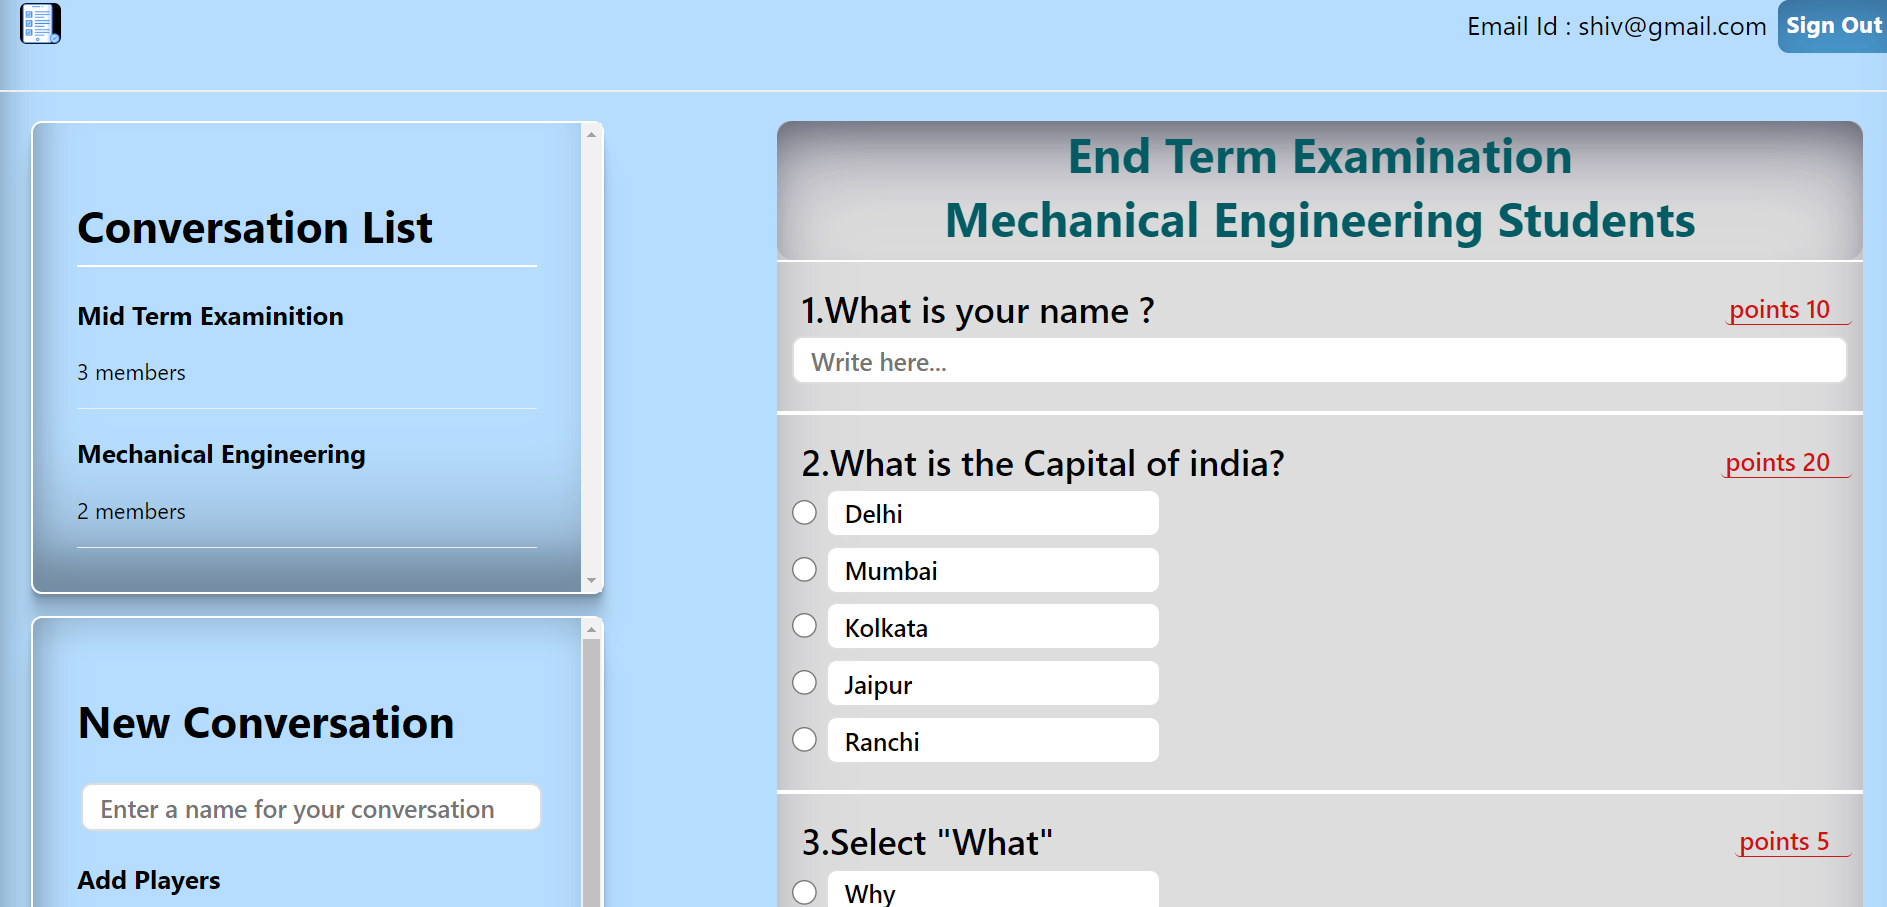
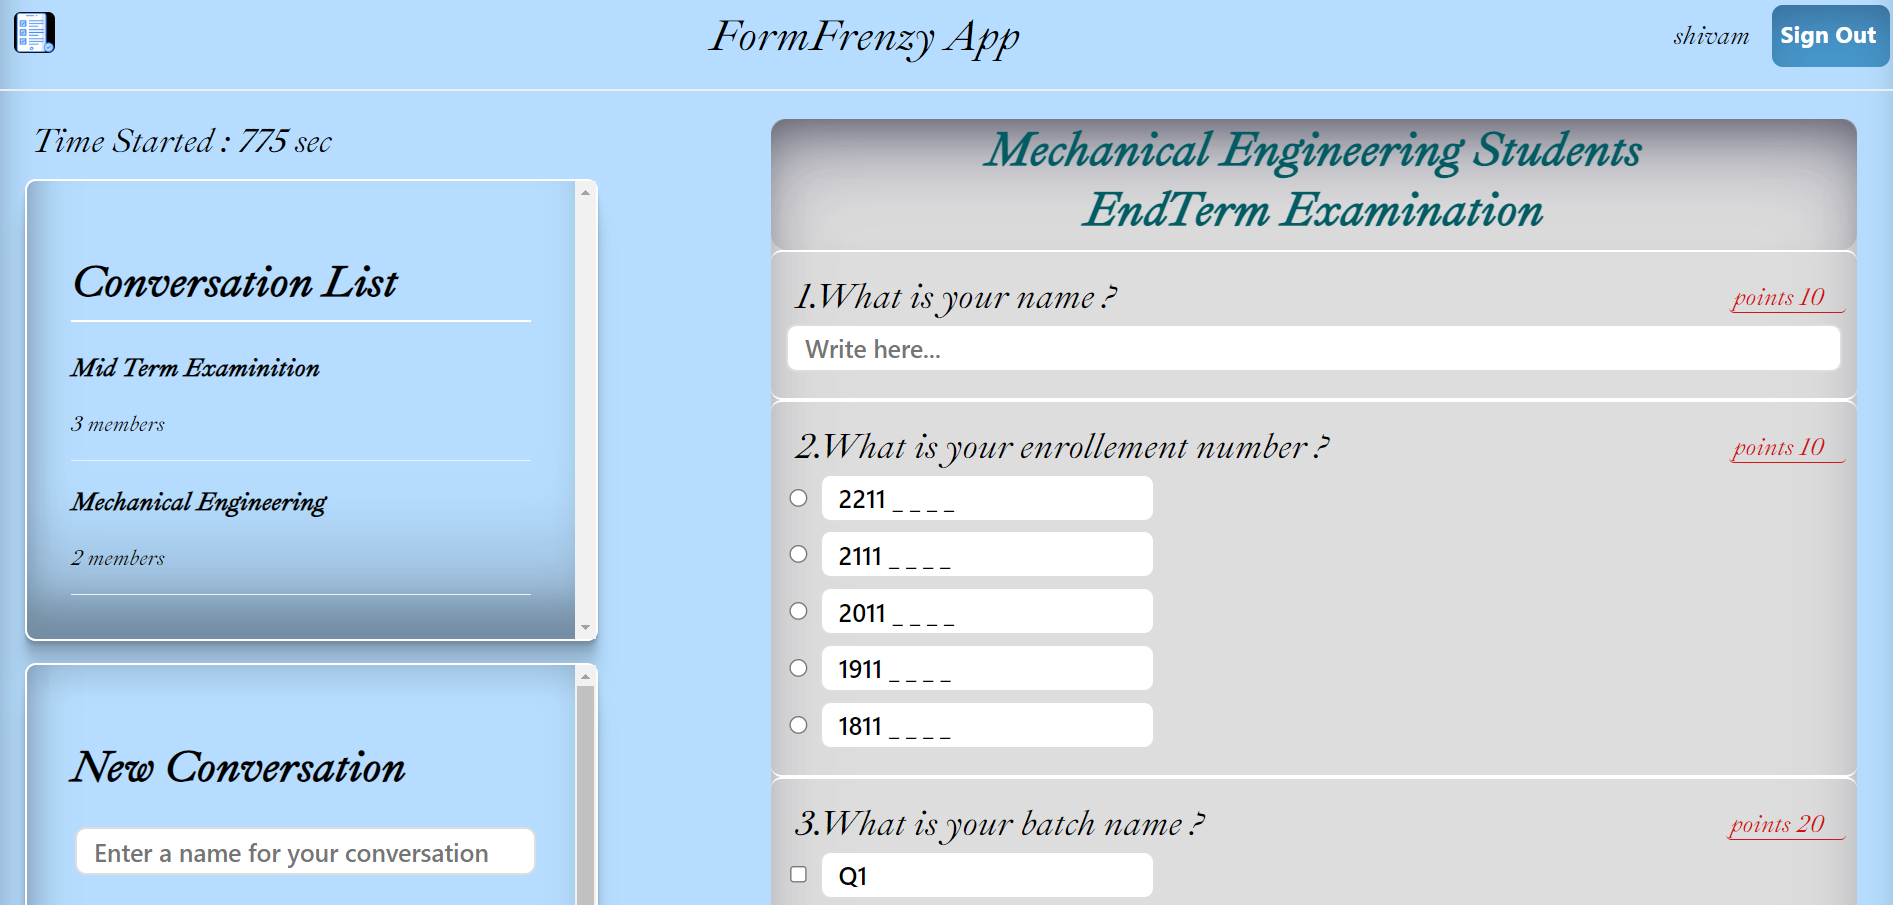
Sinup

diff --git a/Frontend/src/components/navigation/NavBar.jsx b/Frontend/src/components/navigation/NavBar.jsx
@@ -16,10 +16,13 @@ const NavBar = ({ user }) => {
           <img src="/logo.png" alt="logo" className="image"></img>
         </Link>
       </div>
+      <div className="AppName">FormFrenzy App</div>
       <div className="sing-in-out-box">
         {user ? (
           <div className="username-sign-out-navbar">
-            <p className="logged-in-as space-before">Email Id : {user.email}</p>
+            <p className="logged-in-as space-before">
+              {user.email.substring(0, user.email.search("@"))}
+            </p>
             <button className="sign-out-button" onClick={onClickSignOut}>
               Sign Out
             </button>
@@ -35,25 +38,3 @@ const NavBar = ({ user }) => {
 };
 
 export default NavBar;
-
-// <div className="header_info">
-//   <div>
-//     <Link to={`/createnewfrom`}>
-//       <div>Info</div>
-//     </Link>
-//   </div>
-//   <div>
-//     <img src="/logo.png" alt="logo" className="image"></img>
-//   </div>
-// </div>
-// <div className="header_search">
-//   <div>
-//     <input type="text" name="Search" placeholder="Search here...." />
-//   </div>
-// </div>
-// <div className="header_right">
-//   <div>Icons</div>
-//   <div>
-//     <img className="image" src="/avatar.png" alt="logo"></img>
-//   </div>
-// </div>

diff --git a/Frontend/src/components/auth/SinginPage.jsx b/Frontend/src/components/auth/SinginPage.jsx
@@ -12,6 +12,7 @@ const SigninPage = () => {
   const [emailValue, setEmailValue] = useState("");
   const [passwordValue, setPasswordValue] = useState("");
   const [signInError, setSignInError] = useState("");
+  const [singIn, setsingIn] = useState(false);
   const auth = getAuth();
 
   const onClickSignIn = async () => {
@@ -31,6 +32,7 @@ const SigninPage = () => {
       setSignInError("Password length is small...");
       return;
     }
+    setsingIn(true);
     setSignInError("");
 
     try {
@@ -38,6 +40,7 @@ const SigninPage = () => {
       await signInWithEmailAndPassword(auth, emailValue, passwordValue);
       navigate("/");
     } catch (e) {
+      setsingIn(false);
       setSignInError(e.message);
     }
   };
@@ -63,7 +66,11 @@ const SigninPage = () => {
           className="full-width space-after"
           onChange={(e) => setPasswordValue(e.target.value)}
         />
-        <button className="full-width sing-in-button" onClick={onClickSignIn}>
+        <button
+          className="full-width sing-in-button"
+          onClick={onClickSignIn}
+          disabled={singIn}
+        >
           Sign In
         </button>
       </div>

diff --git a/Frontend/src/components/auth/SignupPage.jsx b/Frontend/src/components/auth/SignupPage.jsx
@@ -15,6 +15,7 @@ const SingupPage = () => {
   const [passwordValue, setPasswordValue] = useState("");
   const [signUpError, setSignUpError] = useState("");
   const [register, setRegister] = useState(false);
+  const [confirmPasswordValue, setConfirmPasswordValue] = useState("");
 
   const auth = getAuth();
 
@@ -33,6 +34,10 @@ const SingupPage = () => {
     }
     if (passwordValue.length < 6) {
       setSignUpError("Password length must be grater than 5...");
+      return;
+    }
+    if (passwordValue != confirmPasswordValue) {
+      setSignUpError("Password must be same!!");
       return;
     }
     setSignUpError("");
@@ -85,6 +90,13 @@ const SingupPage = () => {
           placeholder="Password"
           className="full-width space-after"
           onChange={(e) => setPasswordValue(e.target.value)}
+        />
+        <input
+          type="password"
+          value={confirmPasswordValue}
+          placeholder="Confirm Password"
+          className="full-width space-after"
+          onChange={(e) => setConfirmPasswordValue(e.target.value)}
         />
         <button
           className="full-width sing-in-button"

diff --git a/Frontend/src/index.css b/Frontend/src/index.css
@@ -1,3 +1,5 @@
+@import url("https://fonts.googleapis.com/css2?family=Ibarra+Real+Nova:ital@1&display=swap");
+
 body {
   margin: 0;
   font-family: -apple-system, BlinkMacSystemFont, "Segoe UI", "Roboto", "Oxygen",
@@ -5,6 +7,11 @@ body {
     sans-serif;
   -webkit-font-smoothing: antialiased;
   -moz-osx-font-smoothing: grayscale;
+}
+
+.AppName {
+  font-size: 32px;
+  font-weight: 500;
 }
 
 .App {
@@ -1215,4 +1222,8 @@ button:disabled {
 
 .optionshome {
   margin-bottom: 0rem;
+}
+
+* {
+  font-family: "Ibarra Real Nova", serif;
 }
